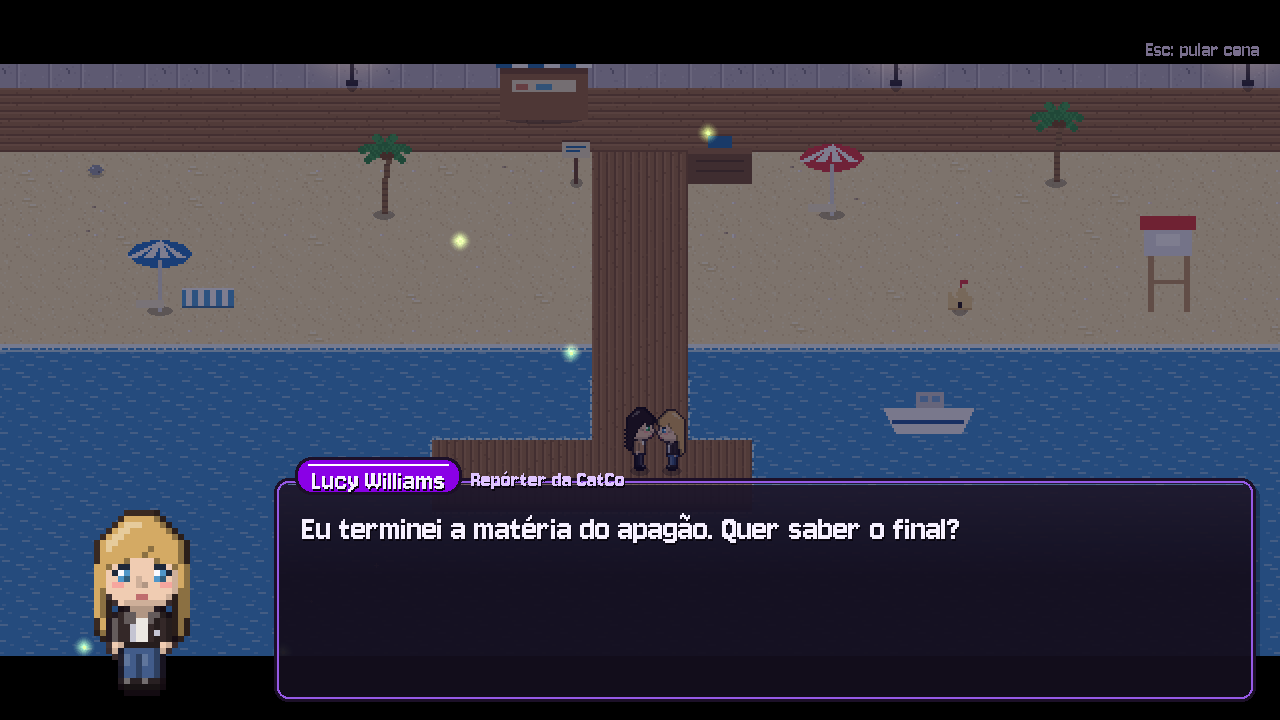
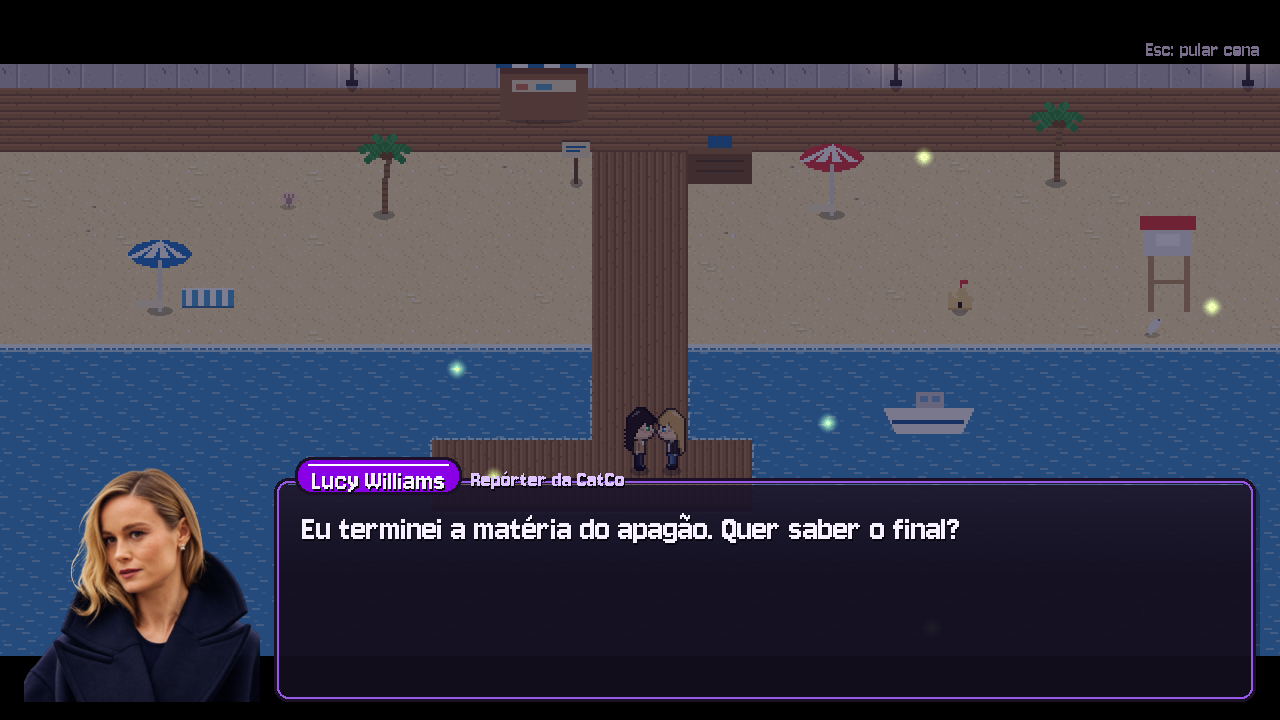
Site: capturas de conversa, cena e relacionamentos com os retratos

diff --git a/CLAUDE.md b/CLAUDE.md
@@ -127,8 +127,9 @@ luthor/
 - **Atalhos:** I/Tab mochila, O objetivos, R relacionamentos (a mesma tecla fecha). Painéis longos usam
   `ui.InfoPanel(..., scroll=True)` (draw_fn devolve o y final) em vez de crescer.
 - **Desmaio às 2h:** acorda no leito do hospital (`HOSPITAL_BED`) com conta.
-- **Site:** roxo (#8a00e6 / #b84cff) como principal e verde (#6ee78c) como destaque. No site use só os sprites
-  em pixel art, não as fotos reais dos retratos.
+- **Site:** roxo (#8a00e6 / #b84cff) como principal e verde (#6ee78c) como destaque. As capturas de conversa,
+  cena e relacionamentos mostram os retratos de verdade (pedido da dona); a lista de personagens do site usa os
+  bonequinhos em pixel art (docs/img/chars).
 
 ## Como testar
 
